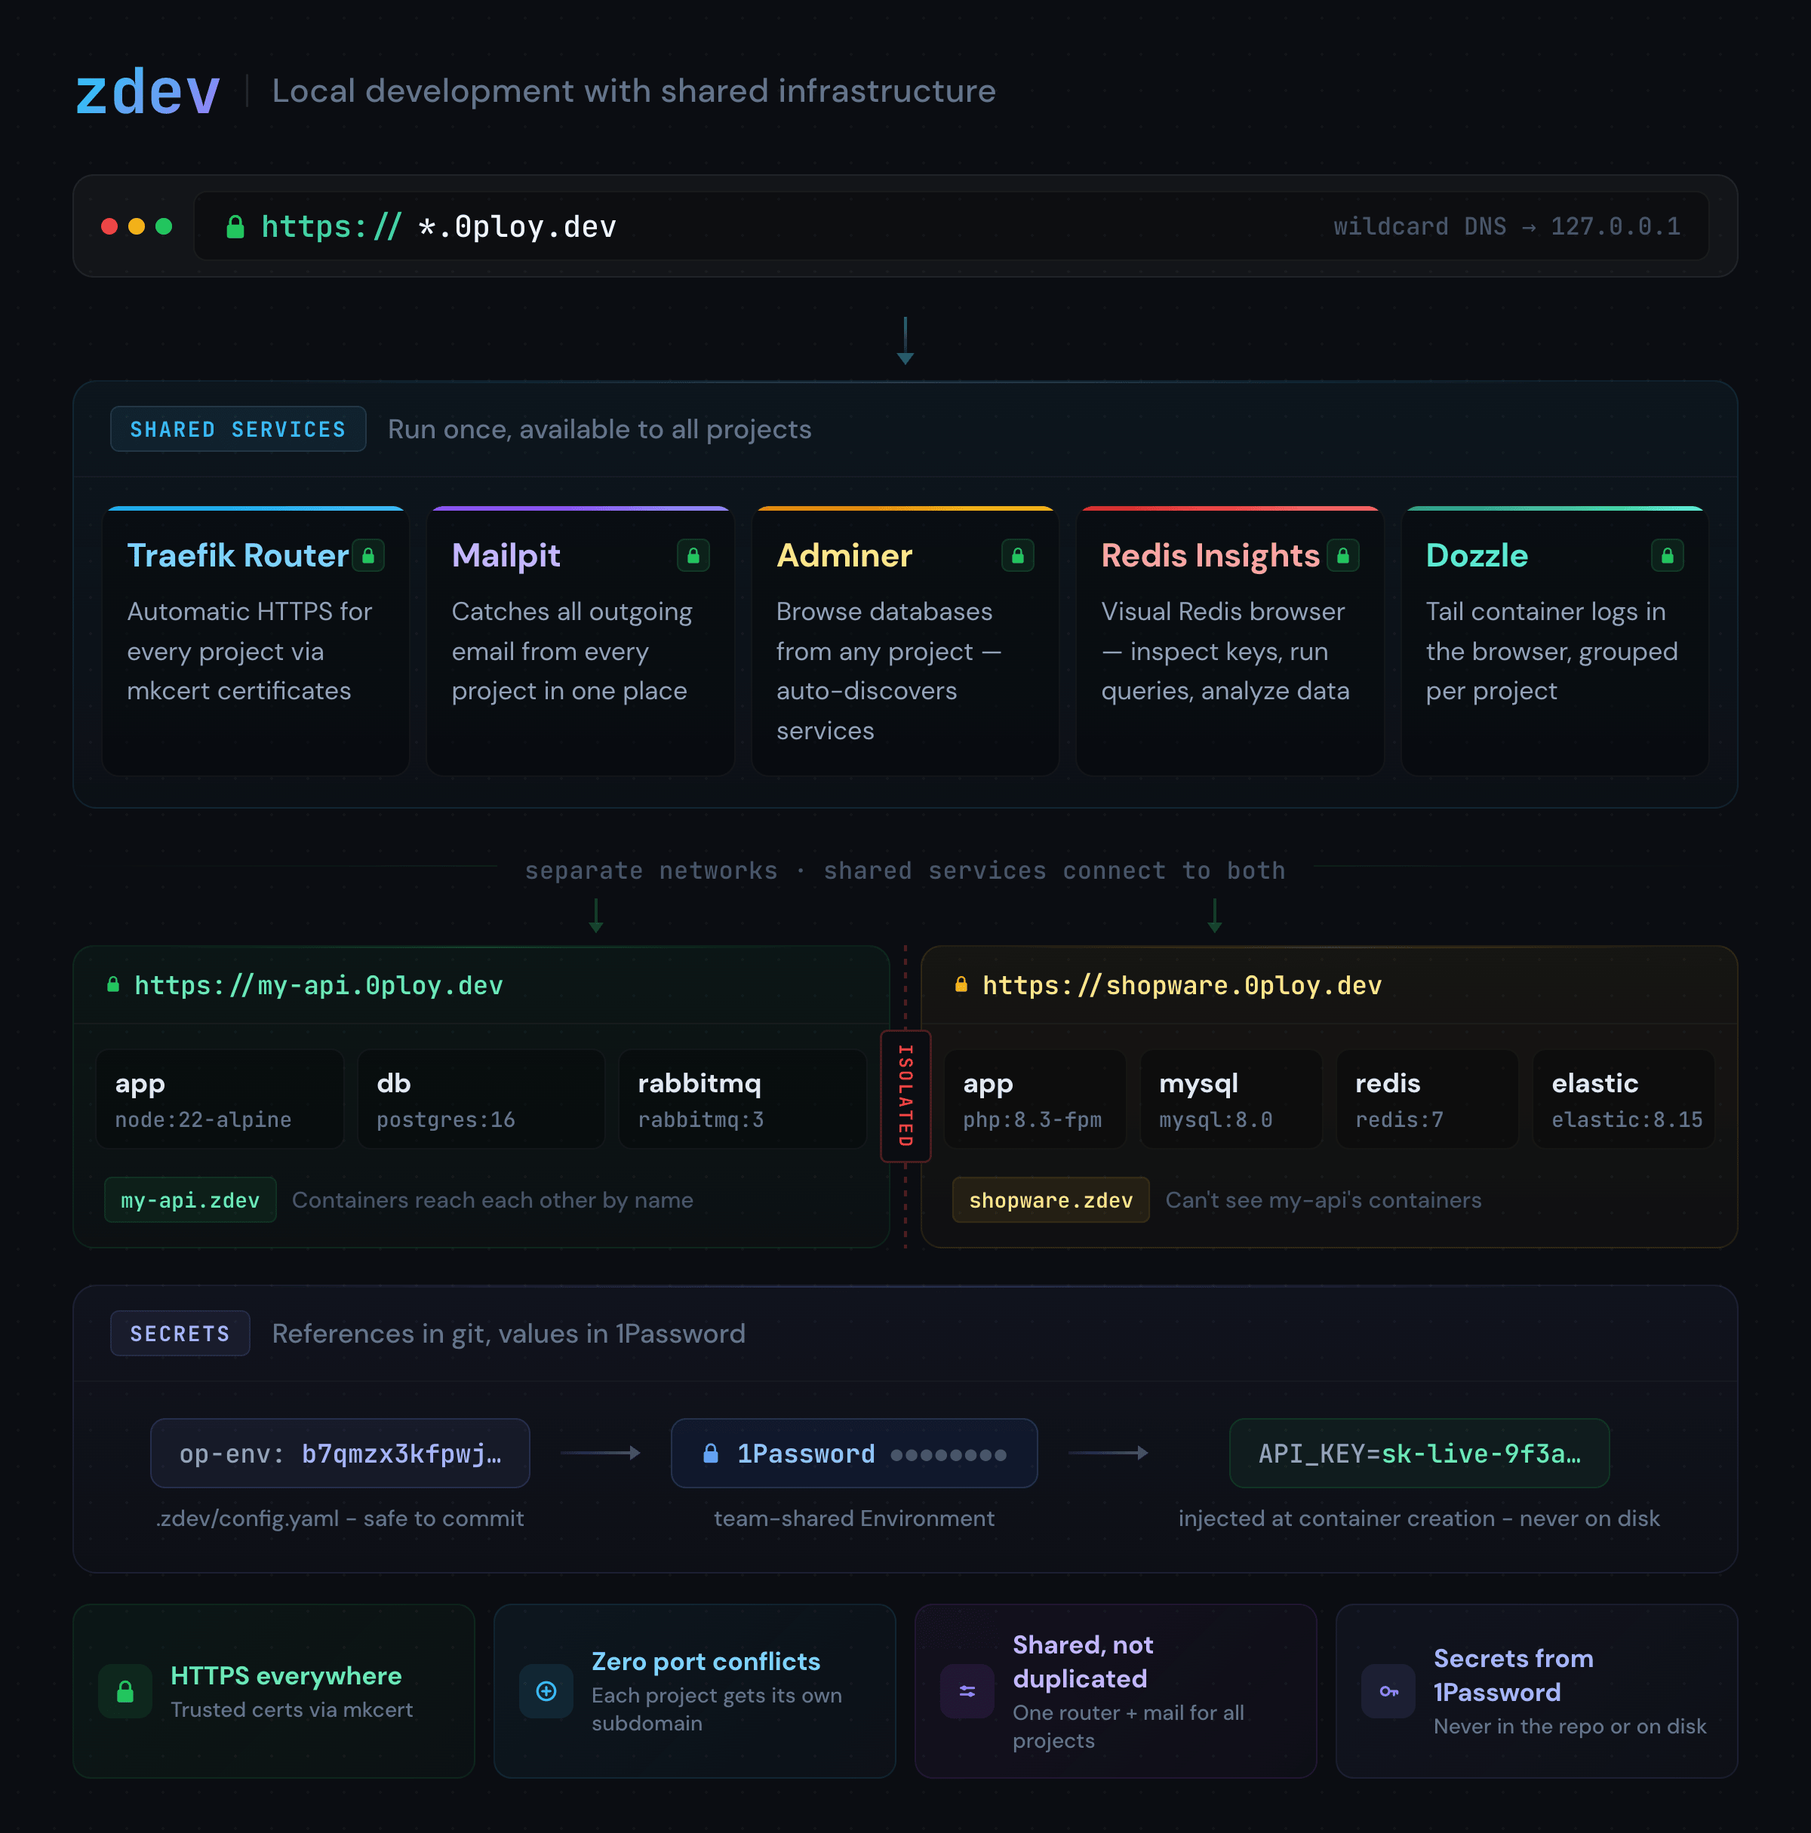
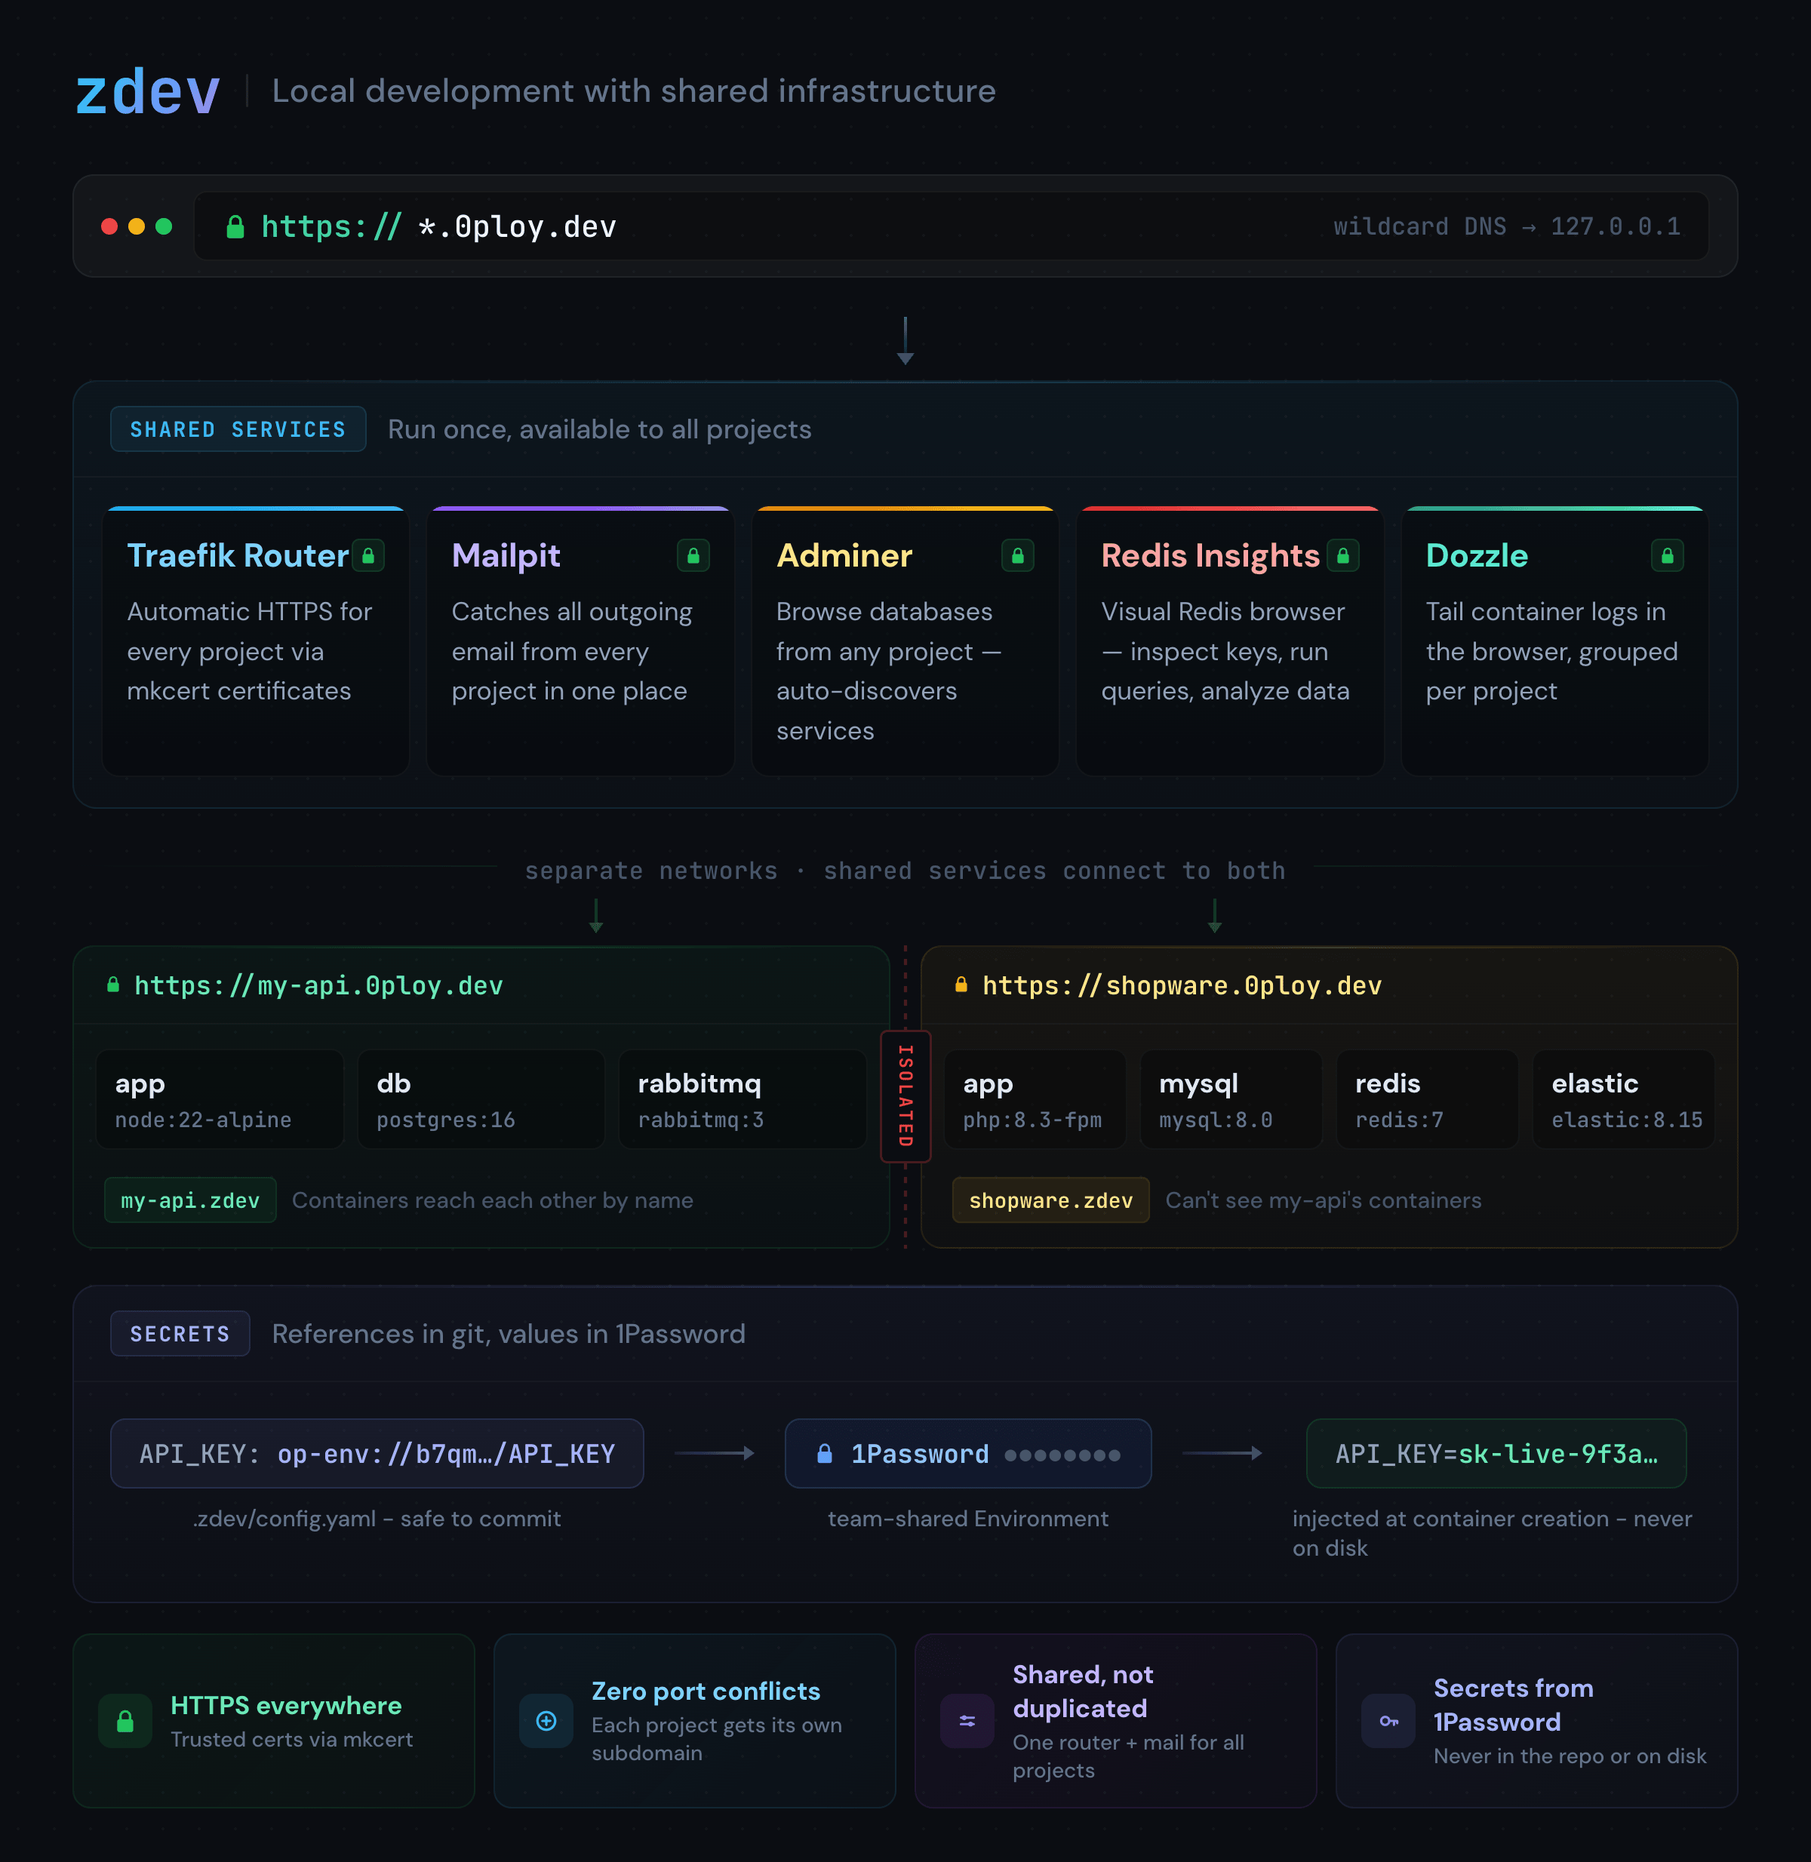
Update architecture diagram to self-contained secret refs and refresh Completo briefing

diff --git a/docs/architecture.html b/docs/architecture.html
@@ -884,7 +884,7 @@
 
       <div class="secret-step">
         <div class="secret-chip ref">
-          <span class="k">op-env:</span> <span class="ref-val">b7qmzx3kfpwj&hellip;</span>
+          <span class="k">API_KEY:</span> <span class="ref-val">op-env://b7qm&hellip;/API_KEY</span>
         </div>
         <div class="secret-caption">.zdev/config.yaml - safe to commit</div>
       </div>

diff --git a/Completo-Briefing.md b/Completo-Briefing.md
@@ -11,7 +11,7 @@ GlobalConfig    - singleton at ~/.zdev/global-config.yaml; domain, SSL, Mutagen,
 ProjectConfig   - per-project at .zdev/config.yaml; services, environment, shared flags
 State           - singleton at ~/.zdev/state.yaml; registered projects + link networks + routing ports
 Service         - a container definition within a project (image or dockerfile build, volumes, env, routing)
-SharedService   - infrastructure containers (Router, Mail, DB UI, Redis UI) in zdev_shared network
+SharedService   - infrastructure containers (Router, Mail, DB UI, Redis UI, Logs) in zdev_shared network
 Volume          - named Docker volume, auto-discovered from service volume mounts (no top-level declaration)
 Network         - per-project Docker network + shared zdev_shared + per-link zdev_link_<name>
 Link            - runtime relationship between projects, stored in global state (not project config)
@@ -20,6 +20,8 @@ MutagenSession  - file sync session between host directory and Docker volume (ma
 Justfile        - custom command definition in .zdev/commands/<name>.just
 Template        - GitHub repo or local dir with .zdev/ config for `zdev create`
 ConfigHash      - sha256 label stamped on every container covering its full expected config
+Environment     - a 1Password Environment (key-value secret store); services attach one via op-env
+SecretsHash     - zdev.secrets-hash label: sha256 over a container's injected secret values
 ```
 
 **Key relationships:**
@@ -35,9 +37,9 @@ ConfigHash      - sha256 label stamped on every container covering its full expe
 
 Default project lifecycle: `zdev start` -> develop -> `zdev stop` (or `zdev down` to tear down, `zdev remove` to also delete the project directory registration).
 
-**Start sequence:** check ports -> create network -> create volumes (auto-discovered) -> pull images (or build them: services with `dockerfile:` are built locally when the image is missing or the Dockerfile changed, tracked via a `zdev.build-hash` image label) -> create containers (stamped with `zdev.config-hash` label) -> connect shared services -> connect to member link networks -> start Mutagen sync -> start containers -> register in state.
+**Start sequence:** check ports -> create network -> create volumes (auto-discovered) -> pull images (or build them: services with `dockerfile:` are built locally when the image is missing or the Dockerfile changed, tracked via a `zdev.build-hash` image label) -> resolve 1Password secrets (only for services that use them; one `op environment read` per distinct Environment, after the config hash is stamped so the hash covers the unresolved references) -> create containers (stamped with `zdev.config-hash` label) -> connect shared services -> connect to member link networks -> start Mutagen sync -> start containers -> register in state.
 
-**Restart vs Update:** `zdev restart` stops and starts the existing containers (no recreate). `zdev update` diffs the current config-hash against what the code would produce now and recreates only services whose config drifted (image, env, volumes, command, working dir, routing labels, ports, aliases); for `dockerfile:` services a stale build (Dockerfile contents changed) also counts as drift and triggers rebuild + recreate. `zdev start`, `zdev stop`, and `zdev restart` all accept an optional service name to scope the action to a single container; project-wide setup (network, volumes, state) still runs idempotently for start.
+**Restart vs Update:** `zdev restart` stops and starts the existing containers (no recreate). `zdev update` diffs the current config-hash against what the code would produce now and recreates only services whose config drifted (image, env, volumes, command, working dir, routing labels, ports, aliases); for `dockerfile:` services a stale build (Dockerfile contents changed) also counts as drift and triggers rebuild + recreate. Changed 1Password secrets are NOT auto-detected: `zdev update --refresh-secrets` resolves fresh values, compares against the `zdev.secrets-hash` label, and recreates only services whose injected values changed (rotations plus variables added/removed in an attached Environment). `zdev start`, `zdev stop`, and `zdev restart` all accept an optional service name to scope the action to a single container; project-wide setup (network, volumes, state) still runs idempotently for start.
 
 **Stop:** pause Mutagen -> stop containers -> disconnect shared services.
 
@@ -62,17 +64,20 @@ Default project lifecycle: `zdev start` -> develop -> `zdev stop` (or `zdev down
 - **Per-service routing domain:** `routing.domain` allows individual services to have custom domains (HTTP/HTTPS only). Useful for frontend + backend splits on the same project.
 - **Project templates:** `zdev create` downloads GitHub repos or copies local dirs. Template repos follow naming convention `zdev-template-<name>`. Templates use a `.setup-complete` marker pattern to solve the container startup vs setup circular dependency. Template authoring guide at `templates/README.md`.
 - **ui.StatusStep / `zdev step`:** Framework-level progress messages use bold cyan `▶` + two blank leading lines to stand out from the noise of nested command output (apk, composer, npm). Template justfiles should use `@zdev step "..."` instead of `@echo "..."` for top-level phase markers.
+- **1Password secrets (op-env):** Two config forms of one token: `services.<name>.op-env: <environment-id>` injects EVERY variable of a 1Password Environment into the container env (explicit `environment:` entries win), and `op-env://<environment-id>/<VARIABLE>` env values inject single variables (self-contained, so one project can mix Environments). The Environment ID is not secret and commits safely; `${VAR}` substitution keeps it DRY. Resolution happens ONLY at container creation via the beta 1Password CLI (`op environment read`, cached per Environment per process) - `start` of existing containers, `restart`, `status`, and no-op `update` never contact 1Password. The config hash covers the UNRESOLVED reference plus the attached ID (`zdev.op-env` label), so rotation never causes surprise recreates; `--refresh-secrets` is the explicit rotation path. On recreates, secrets resolve BEFORE the old container is removed. Never log resolved values; op's stdout may contain secrets and must never be folded into errors. CI uses `OP_SERVICE_ACCOUNT_TOKEN`. Values must be single-line; a reference must be the entire env value (no mid-string interpolation).
+- **ZDEV_HOME** relocates the entire zdev home (config, state, certs, downloaded tools; default `~/.zdev`). Every storage path flows through `config.GetZdevHome()`.
 
 ## Tech Stack & Architecture
 
 | Component | Technology |
 |-----------|-----------|
-| Language | Go 1.25 |
+| Language | Go 1.26 |
 | CLI | Cobra |
 | Container runtime | Docker CLI (shell out, not SDK - enables future Podman support) |
 | File sync | Mutagen (auto-enabled on macOS, disabled on Linux) |
 | Task runner | just (justfiles in `.zdev/commands/`) |
 | SSL | mkcert (locally-trusted certs) |
+| Secrets | 1Password CLI beta (`op environment read`, user-installed via brew) |
 | Config format | YAML with `${VAR}` substitution |
 | State storage | YAML files |
 
@@ -80,8 +85,9 @@ Default project lifecycle: `zdev start` -> develop -> `zdev stop` (or `zdev down
 - `cmd/` - Cobra commands (one file per command), bootstrap helpers in `shared.go`
 - `internal/config/` - parsing, `defaults.go` (single source of truth for images/versions/domain), two-pass variable substitution
 - `internal/runtime/` - Docker abstraction interface + DockerCLI implementation + `confighash.go`
-- `internal/project/` - lifecycle (`project.go`), shared service connections, Mutagen sync, link connections, rename
-- `internal/services/` - shared infra (router, mail, adminer, redis insights) + `registry.go` (single source of truth)
+- `internal/project/` - lifecycle (`project.go`), shared service connections, Mutagen sync, link connections, rename, secret resolution hook
+- `internal/secrets/` - 1Password Environment resolver (`Resolver` interface, `OnePasswordCLI` with interactive install/signin recovery, `Mock` for tests)
+- `internal/services/` - shared infra (router, mail, adminer, redis insights, dozzle) + `registry.go` (single source of truth) + `webui.go` (shared Traefik config builder)
 - `internal/state/` - global registry with `Mutate()` atomic helper
 - `internal/mutagen/` - Mutagen binary wrapper
 - `internal/create/` - template resolution, validation, local copy, GitHub tarball download
@@ -102,14 +108,17 @@ Default project lifecycle: `zdev start` -> develop -> `zdev stop` (or `zdev down
 | Shared container | `zdev_{service}` | `zdev_router` |
 | Shared network | `zdev_shared` | - |
 | Mutagen session | `zdev-{project}-{service}` | `zdev-myshop-app` |
+| Mutagen sync volume | `sync.{service}.{project}.zdev` | `sync.app.myshop.zdev` |
 | Shared service URL | `{service}.shared.{domain}` | `mail.shared.0ploy.dev` |
 | Project URL | `{project}.{domain}` | `myshop.0ploy.dev` |
 | Config hash label | `zdev.config-hash` | stamped on every container |
+| Secrets labels | `zdev.op-env`, `zdev.secrets-hash` | attached Environment ID / injected-values hash |
+| Secret reference | `op-env://{environment-id}/{VARIABLE}` | `op-env://b7qmzx.../API_KEY` |
 
 ## CLI Commands
 
-**Lifecycle:** `create <template> [name]`, `start [-q] [--build|--no-build]`, `stop`, `restart`, `update [--build|--no-build]`, `down [-v]`, `remove <name>`, `rename <new-name>`
-**Container interaction:** `exec <service> <cmd>`, `logs [-f] [--tail N] [service]`
+**Lifecycle:** `create <template> [name]`, `start [-q] [--build|--no-build]`, `stop`, `restart`, `update [--build|--no-build] [--refresh-secrets]`, `down [-v]`, `remove <name>`, `rename <new-name>`
+**Container interaction:** `exec <service> <cmd>`, `logs [-f] [--tail N] [--open] [service]` (`--open` launches the Dozzle web UI)
 **Info:** `info`, `status`, `list`, `config`, `open [project]`
 **Shared service shortcuts (browser):** `mail`, `db`, `redis`, `docs`
 **Shared services (mgmt):** `services start|stop|status|recreate`
@@ -127,6 +136,7 @@ Default project lifecycle: `zdev start` -> develop -> `zdev stop` (or `zdev down
 | Mail | `zdev_mail` | `mail.shared.<domain>` | Mailpit email catcher (SMTP on port 1025, container name `mail`) |
 | DB UI | `zdev_db` | `db.shared.<domain>` | Adminer with auto-detected database servers |
 | Redis UI | `zdev_redis` | `redis.shared.<domain>` | Redis Insights browser |
+| Logs | `zdev_logs` | `logs.shared.<domain>` | Dozzle log viewer, grouped per project (opt-in via `shared.logs`, on by default) |
 | Docs | via Traefik | `docs.shared.<domain>` | Dynamic docs page, also the 404 catch-all |
 
 Default domain: `0ploy.dev` (wildcard DNS -> 127.0.0.1 - not a real site, just a resolver trick).
@@ -144,8 +154,9 @@ User-defined: `variables:` section defines custom `${VAR}` placeholders (resolve
 **Key project config flags:**
 - `variables: map` - reusable `${VAR}` substitution values (not passed to containers)
 - `services.<name>.dockerfile: path` - build a local dev image from this Dockerfile instead of pulling (context is always the project root; `image:` optionally names the tag, default `zdev-<project>-<service>:latest`)
+- `services.<name>.op-env: <environment-id>` - inject every variable of a 1Password Environment into the container env (explicit `environment:` entries win); single variables use `op-env://<environment-id>/<VARIABLE>` env values
 - `auto_open_at_start: bool` - open browser after start
-- `shared.router|mail|db|redis: bool` - connect to shared services
+- `shared.router|mail|db|redis|logs: bool` - connect to shared services
 - `services.<name>.register_to_dbui: bool` - explicitly register in Adminer (auto-detected for db/mysql/postgres names)
 - `services.<name>.routing.protocol: http|https|tcp|udp` - routing type
 - `services.<name>.routing.domain: string` - custom domain for this service (http/https only)
@@ -155,7 +166,7 @@ User-defined: `variables:` section defines custom `${VAR}` placeholders (resolve
 
 ## External Tools
 
-Downloaded to `~/.zdev/bin/` on first use: mkcert v1.4.4, just 1.49.0, mutagen 0.18.1. System PATH checked first. Not yet SHA256-verified on download (tracked as a ticket).
+Downloaded to `~/.zdev/bin/` on first use: mkcert v1.4.4, just 1.49.0, mutagen 0.18.1. System PATH checked first. Not yet SHA256-verified on download (tracked as a ticket). The 1Password CLI (`op`, beta build) is NOT auto-downloaded - it is user-installed via `brew install 1password-cli@beta`; zdev offers the install interactively and drives `op signin` when needed.
 
 ## Build & Release
 
@@ -189,6 +200,8 @@ Downloaded to `~/.zdev/bin/` on first use: mkcert v1.4.4, just 1.49.0, mutagen 0
 | Skill | AI agent integration file at `skills/zdev/SKILL.md` |
 | Template | GitHub repo or local dir for `zdev create` scaffolding |
 | .setup-complete | Marker file in templates solving container startup vs setup circular dependency |
+| op-env / Environment | 1Password Environment (key-value secret store); `op-env:` attaches one to a service, `op-env://` references one variable |
+| Secrets hash | `zdev.secrets-hash` label enabling `--refresh-secrets` rotation detection without storing secret material |
 
 ## Ticket Conventions
 
@@ -263,5 +276,6 @@ Add a new project template at `0ploy/zdev-template-django` that scaffolds a Djan
 - Windows support - macOS and Linux only
 - Docker Compose compatibility - zdev has its own config format
 - Multi-machine or remote Docker - local Docker daemon only
-- Container image building - zdev uses pre-built images only
+- Compose-parity image builds - `dockerfile:` deliberately stays a single field (no build args, targets, custom contexts, multi-arch); anything fancier is a custom build command plus `image:`
+- Secret backends other than 1Password Environments (no Vault, no AWS Secrets Manager, no vault-item `op://` references)
 - Docker SDK integration - we shell out to the CLI to keep the door open for Podman
